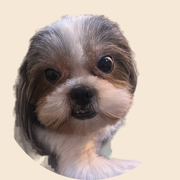
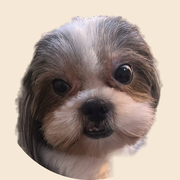
Ícone só com a cabeça da cachorra e título 'Gabriel & Bianca - 09/07/2027'
Claude-Session: https://claude.ai/code/session_012HDG5BbuwhSusQzb7gA7Tq

diff --git a/src/app/layout.tsx b/src/app/layout.tsx
@@ -2,11 +2,11 @@ import type { Metadata, Viewport } from "next";
 import "@fontsource-variable/bodoni-moda/opsz.css";
 import "@fontsource-variable/bodoni-moda/opsz-italic.css";
 import "@fontsource-variable/jost/index.css";
-import { casamento, dataPorExtenso } from "@/config/casamento";
+import { casamento, dataCurta, dataPorExtenso } from "@/config/casamento";
 import "./globals.css";
 
 export const metadata: Metadata = {
-  title: `${casamento.noivo} e ${casamento.noiva}`,
+  title: `${casamento.noivo} & ${casamento.noiva} - ${dataCurta}`,
   description: `Nosso casamento, ${dataPorExtenso}.`,
 };
 

diff --git a/src/config/casamento.ts b/src/config/casamento.ts
@@ -20,3 +20,10 @@ export const dataPorExtenso = dataCasamento.toLocaleDateString("pt-BR", {
   year: "numeric",
   timeZone: "America/Sao_Paulo",
 });
+
+export const dataCurta = dataCasamento.toLocaleDateString("pt-BR", {
+  day: "2-digit",
+  month: "2-digit",
+  year: "numeric",
+  timeZone: "America/Sao_Paulo",
+});
